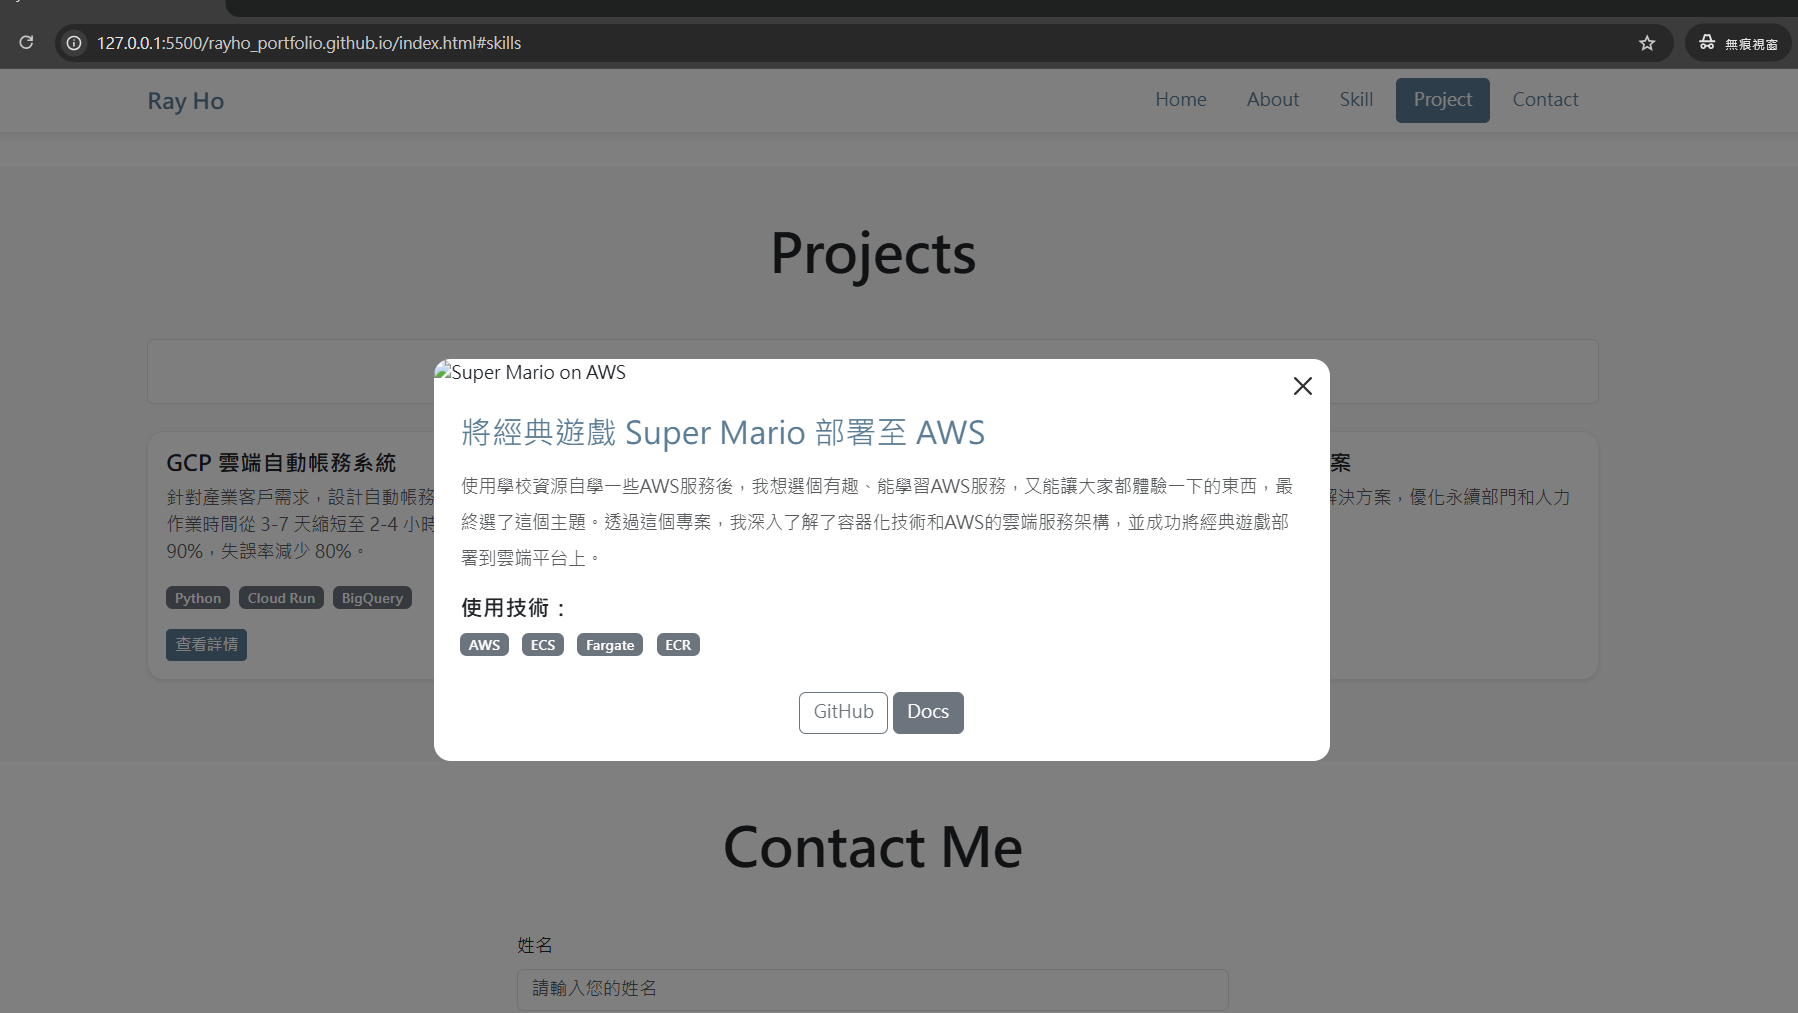
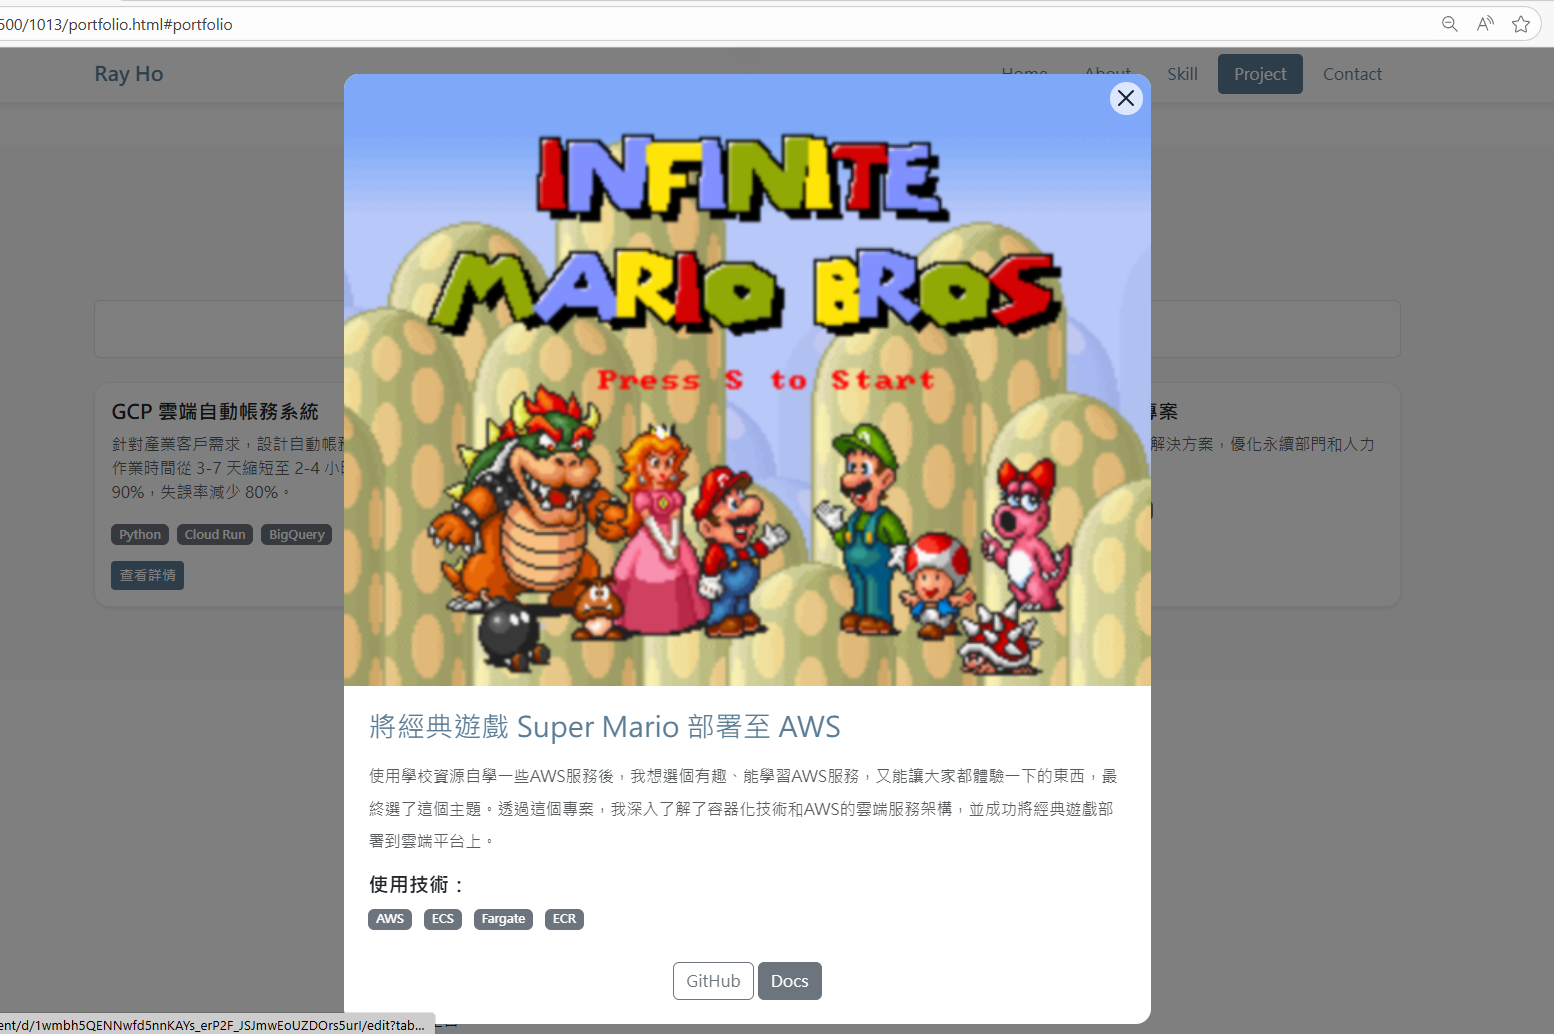
update

diff --git a/1013/portfolio.html b/1013/portfolio.html
@@ -3,8 +3,7 @@
 <head>
     <meta charset="UTF-8">
     <meta name="viewport" content="width=device-width, initial-scale=1.0">
-    <title>個人作品集 - Ray Ho</title>
-    <!-- Bootstrap 5 CSS -->
+    <title>Ray Ho</title>
     <link href="https://cdn.jsdelivr.net/npm/bootstrap@5.3.0/dist/css/bootstrap.min.css" rel="stylesheet">
     <style>
         /* 自訂顏色變數 */
@@ -24,7 +23,7 @@
         }
         
         .navbar.scrolled {
-            background: rgba(255, 255, 255, 0.85) !important;
+            background: rgba(255, 255, 255, 0.4) !important;
             backdrop-filter: blur(15px);
         }
         
@@ -154,7 +153,6 @@
     </style>
 </head>
 <body>
-    <!-- 1. 導航列 -->
     <nav class="navbar navbar-expand-lg navbar-light fixed-top">
         <div class="container">
             <a class="navbar-brand fw-bold" href="#">Ray Ho</a>
@@ -164,26 +162,25 @@
             <div class="collapse navbar-collapse" id="navbarNav">
                 <ul class="navbar-nav ms-auto">
                     <li class="nav-item">
-                        <a class="nav-link" href="#home">首頁</a>
+                        <a class="nav-link" href="#home">Home</a>
                     </li>
                     <li class="nav-item">
-                        <a class="nav-link" href="#about">關於</a>
+                        <a class="nav-link" href="#about">About</a>
                     </li>
                     <li class="nav-item">
-                        <a class="nav-link" href="#skills">技能</a>
+                        <a class="nav-link" href="#skills">Skill</a>
                     </li>
                     <li class="nav-item">
-                        <a class="nav-link" href="#portfolio">作品</a>
+                        <a class="nav-link" href="#portfolio">Project</a>
                     </li>
                     <li class="nav-item">
-                        <a class="nav-link" href="#contact">聯絡</a>
+                        <a class="nav-link" href="#contact">Contact</a>
                     </li>
                 </ul>
             </div>
         </div>
     </nav>
 
-    <!-- 2. Hero Section -->
     <section id="home" class="hero-section py-5 mt-5">
         <div class="container">
             <div class="row align-items-center min-vh-100">
@@ -192,22 +189,21 @@
                     <p class="lead fs-4 mb-5">積極外向、勇於挑戰、觀察敏銳且善於聆聽<br>目標成為能解決複雜企業問題的顧問，喜歡音樂、閱讀和運動</p>
                     <div class="d-flex gap-3 justify-content-center flex-wrap">
                         <a href="#portfolio" class="btn btn-light btn-lg px-4">查看作品集</a>
-                        <button class="btn btn-custom-outline btn-lg px-4">下載履歷</button>
+                        <a href="#contact" class="btn btn-light btn-lg px-4">聯絡我</a>
                     </div>
                 </div>
             </div>
         </div>
     </section>
 
-    <!-- 3. 關於我 Section -->
     <section id="about" class="py-5 bg-light">
         <div class="container">
-            <h2 class="text-center mb-5 display-5 fw-bold">關於我</h2>
+            <h2 class="text-center mb-5 display-5 fw-bold">About Me</h2>
             <div class="row align-items-center">
-                <div class="col-md-4 text-center mb-4 mb-md-0">
-                    <img src="Me.JPG" alt="個人照片" class="img-fluid rounded-circle shadow">
+                <div class="col-md-3 text-center mb-4 mb-md-0">
+                    <img src="Me.JPG" alt="個人照片" class="img-fluid shadow" style="border-radius: 15px;">
                 </div>
-                <div class="col-md-8">
+                <div class="col-md-9">
                     <h3 class="fw-bold text-custom-primary mb-3">淡江大學 資訊管理學系四年級 學生</h3>
                     <p class="text-muted fs-5 lh-lg">
                         Hi, 我是Ray! 目前就讀淡江大學資訊管理學系四年級，擁有 [數位轉型實務 × 技術實作 × 跨產業技術服務] 經驗，擅長 [雲端服務架構 × 解決方案設計 × 跨領域協作]。
@@ -226,12 +222,10 @@
         </div>
     </section>
 
-    <!-- 4. 技能展示 Section -->
     <section id="skills" class="py-5 bg-white">
         <div class="container">
-            <h2 class="text-center mb-5 display-5 fw-bold">專業技能</h2>
+            <h2 class="text-center mb-5 display-5 fw-bold">Skills</h2>
             <div class="row">
-                <!-- 技能卡片 1 -->
                 <div class="col-md-4 mb-4">
                     <div class="card h-100 border-0 shadow-sm">
                         <div class="card-body text-center p-4">
@@ -243,7 +237,6 @@
                         </div>
                     </div>
                 </div>
-                <!-- 技能卡片 2 -->
                 <div class="col-md-4 mb-4">
                     <div class="card h-100 border-0 shadow-sm">
                         <div class="card-body text-center p-4">
@@ -255,7 +248,6 @@
                         </div>
                     </div>
                 </div>
-                <!-- 技能卡片 3 -->
                 <div class="col-md-4 mb-4">
                     <div class="card h-100 border-0 shadow-sm">
                         <div class="card-body text-center p-4">
@@ -271,15 +263,13 @@
         </div>
     </section>
 
-    <!-- 5. 作品集 Section -->
     <section id="portfolio" class="py-5 bg-light">
         <div class="container">
-            <h2 class="text-center mb-5 display-5 fw-bold">作品集</h2>
+            <h2 class="text-center mb-5 display-5 fw-bold">Projects</h2>
             <div class="alert alert-light border text-center mb-4" role="alert">
                 點擊下方作品了解更多細節
             </div>
             <div class="row">
-                <!-- 作品 1 -->
                 <div class="col-lg-4 col-md-6 mb-4">
                     <div class="card h-100 shadow-sm">
                         <div class="card-body">
@@ -294,7 +284,6 @@
                         </div>
                     </div>
                 </div>
-                <!-- 作品 2 -->
                 <div class="col-lg-4 col-md-6 mb-4">
                     <div class="card h-100 shadow-sm">
                         <div class="card-body">
@@ -309,7 +298,6 @@
                         </div>
                     </div>
                 </div>
-                <!-- 作品 3 -->
                 <div class="col-lg-4 col-md-6 mb-4">
                     <div class="card h-100 shadow-sm">
                         <div class="card-body">
@@ -328,10 +316,9 @@
         </div>
     </section>
 
-    <!-- 6. 聯絡表單 Section -->
     <section id="contact" class="py-5 bg-white">
         <div class="container">
-            <h2 class="text-center mb-5 display-5 fw-bold">聯絡我</h2>
+            <h2 class="text-center mb-5 display-5 fw-bold">Contact Me</h2>
             <div class="row justify-content-center">
                 <div class="col-lg-6">
                     <form>
@@ -354,28 +341,27 @@
                         <div class="text-center">
                             <button type="submit" class="btn btn-custom-primary btn-lg px-5">送出訊息</button>
                         </div>
+                        <div class="text-center mt-5">
+                            <h5 class="fw-normal fs-6">
+                                <a href="rechun5147@gmail.com" target="_blank" class="text-decoration-none text-custom-primary fw-bold me-4">Email : rechun5147@gmail.com</a>
+                                <a href="https://www.linkedin.com/in/rayho-1021-profile" target="_blank" class="text-decoration-none text-custom-primary fw-bold me-4">LinkedIn</a>
+                                <a href="https://github.com/rayho1021" target="_blank" class="text-decoration-none text-custom-primary fw-bold">GitHub</a>
+                            </h5>
+                        </div>
                     </form>
                 </div>
             </div>
         </div>
     </section>
 
-    <!-- 7. Footer -->
     <footer class="bg-dark text-white py-4">
         <div class="container">
             <div class="text-center">
-                <div class="mb-3">
-                    <a href="mailto:rechun5147@gmail.com" class="text-white text-decoration-none me-3">Email</a>
-                    <a href="https://www.linkedin.com/in/rayho-1021-profile" target="_blank" class="text-white text-decoration-none me-3">LinkedIn</a>
-                    <a href="https://github.com/rayho1021" target="_blank" class="text-white text-decoration-none">GitHub</a>
-                </div>
                 <p class="mb-0">&copy; 2024 Ray Ho. All rights reserved.</p>
             </div>
         </div>
     </footer>
 
-    <!-- Portfolio Modals -->
-    <!-- Modal 1 - GCP 雲端自動帳務系統 -->
     <div class="modal fade" id="portfolioModal1" tabindex="-1" aria-labelledby="portfolioModal1Label" aria-hidden="true">
         <div class="modal-dialog modal-lg modal-dialog-centered">
             <div class="modal-content border-0">
@@ -383,10 +369,8 @@
                     <button type="button" class="btn-close" data-bs-dismiss="modal" aria-label="Close"></button>
                 </div>
                 <div class="modal-body p-0">
-                    <!-- 作品圖片 -->
                     <img src="https://via.placeholder.com/800x400" class="img-fluid w-100" alt="GCP雲端自動帳務系統">
                     
-                    <!-- 作品內容 -->
                     <div class="p-4">
                         <h3 class="text-custom-primary mb-3">GCP 雲端自動帳務系統 (工作專案)</h3>
                         
@@ -420,7 +404,6 @@
         </div>
     </div>
 
-    <!-- Modal 2 - Super Mario on AWS -->
     <div class="modal fade" id="portfolioModal2" tabindex="-1" aria-labelledby="portfolioModal2Label" aria-hidden="true">
         <div class="modal-dialog modal-lg modal-dialog-centered">
             <div class="modal-content border-0">
@@ -428,10 +411,8 @@
                     <button type="button" class="btn-close" data-bs-dismiss="modal" aria-label="Close"></button>
                 </div>
                 <div class="modal-body p-0">
-                    <!-- 作品圖片 -->
-                    <img src="https://via.placeholder.com/800x400" class="img-fluid w-100" alt="Super Mario on AWS">
+                    <img src="mario.png" class="img-fluid w-100" alt="Super Mario on AWS">
                     
-                    <!-- 作品內容 -->
                     <div class="p-4">
                         <h3 class="text-custom-primary mb-3">將經典遊戲 Super Mario 部署至 AWS</h3>
                         <p class="text-muted lh-lg">
@@ -447,11 +428,11 @@
                         </div>
                         
                         <div class="text-center">
-                            <a href="https://github.com/rayho1021/super-mario-on-aws" target="_blank" class="btn btn-custom-primary me-2">
-                                GitHub 專案
+                            <a href="https://github.com/rayho1021/super-mario-on-aws" target="_blank" class="btn btn-outline-secondary">
+                                GitHub
                             </a>
                             <a href="https://docs.google.com/document/d/1wmbh5QENNwfd5nnKAYs_erP2F_JSJmwEoUZDOrs5urI/edit?tab=t.0" target="_blank" class="btn btn-outline-secondary">
-                                專案文件
+                                Docs
                             </a>
                         </div>
                     </div>
@@ -460,7 +441,6 @@
         </div>
     </div>
 
-    <!-- Modal 3 - 永續報告書RPA專案 -->
     <div class="modal fade" id="portfolioModal3" tabindex="-1" aria-labelledby="portfolioModal3Label" aria-hidden="true">
         <div class="modal-dialog modal-lg modal-dialog-centered">
             <div class="modal-content border-0">
@@ -468,10 +448,8 @@
                     <button type="button" class="btn-close" data-bs-dismiss="modal" aria-label="Close"></button>
                 </div>
                 <div class="modal-body p-0">
-                    <!-- 作品圖片 -->
                     <img src="https://via.placeholder.com/800x400" class="img-fluid w-100" alt="永續報告書RPA專案">
                     
-                    <!-- 作品內容 -->
                     <div class="p-4">
                         <h3 class="text-custom-primary mb-3">STP21-ESG部門永續報告書RPA專案</h3>
                         <p class="text-muted lh-lg">
@@ -496,7 +474,6 @@
         </div>
     </div>
 
-    <!-- Bootstrap 5 JS -->
     <script src="https://cdn.jsdelivr.net/npm/bootstrap@5.3.0/dist/js/bootstrap.bundle.min.js"></script>
     <script>
         // 導航列滾動效果
